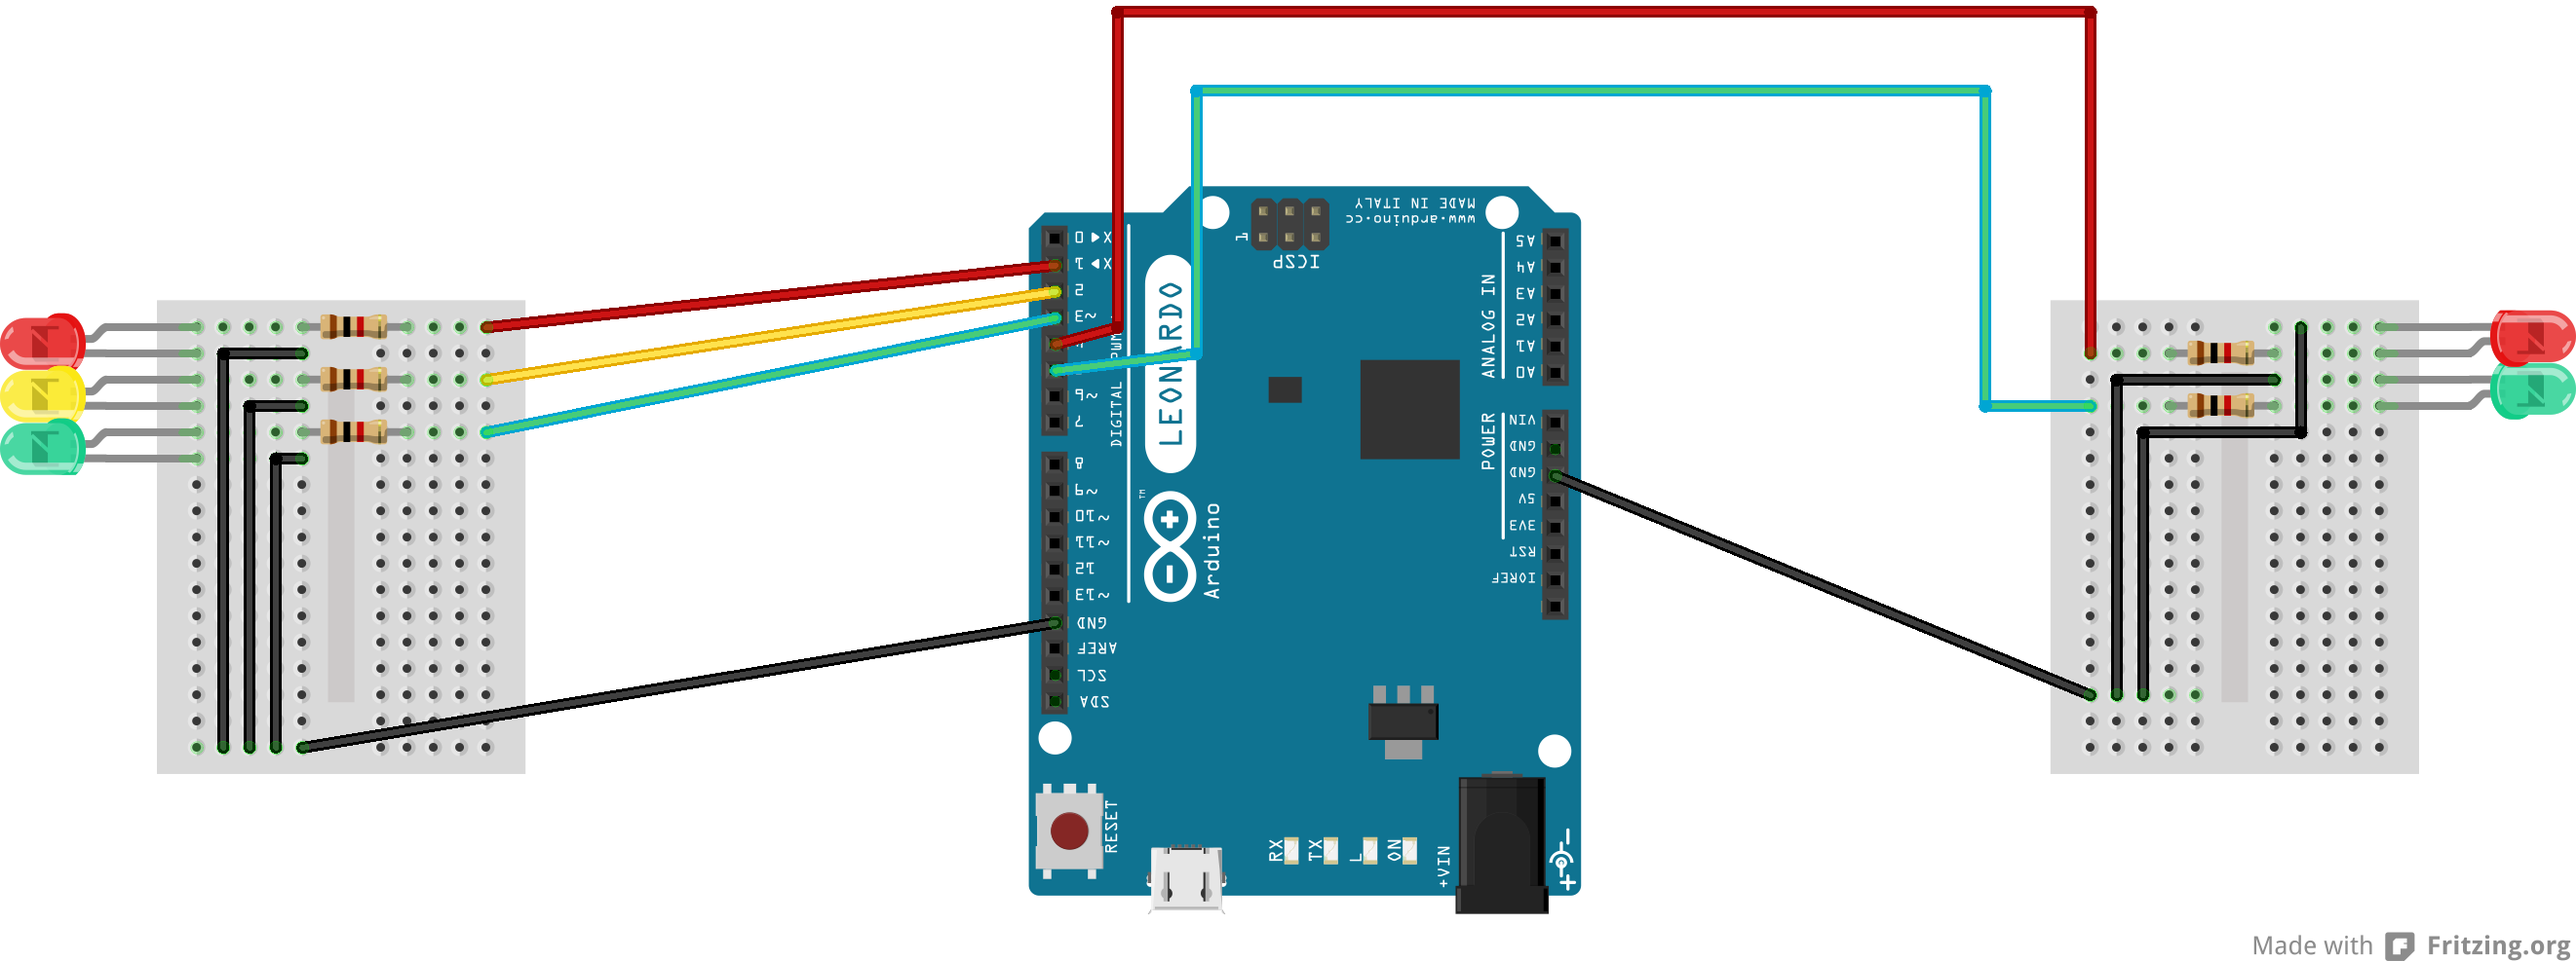
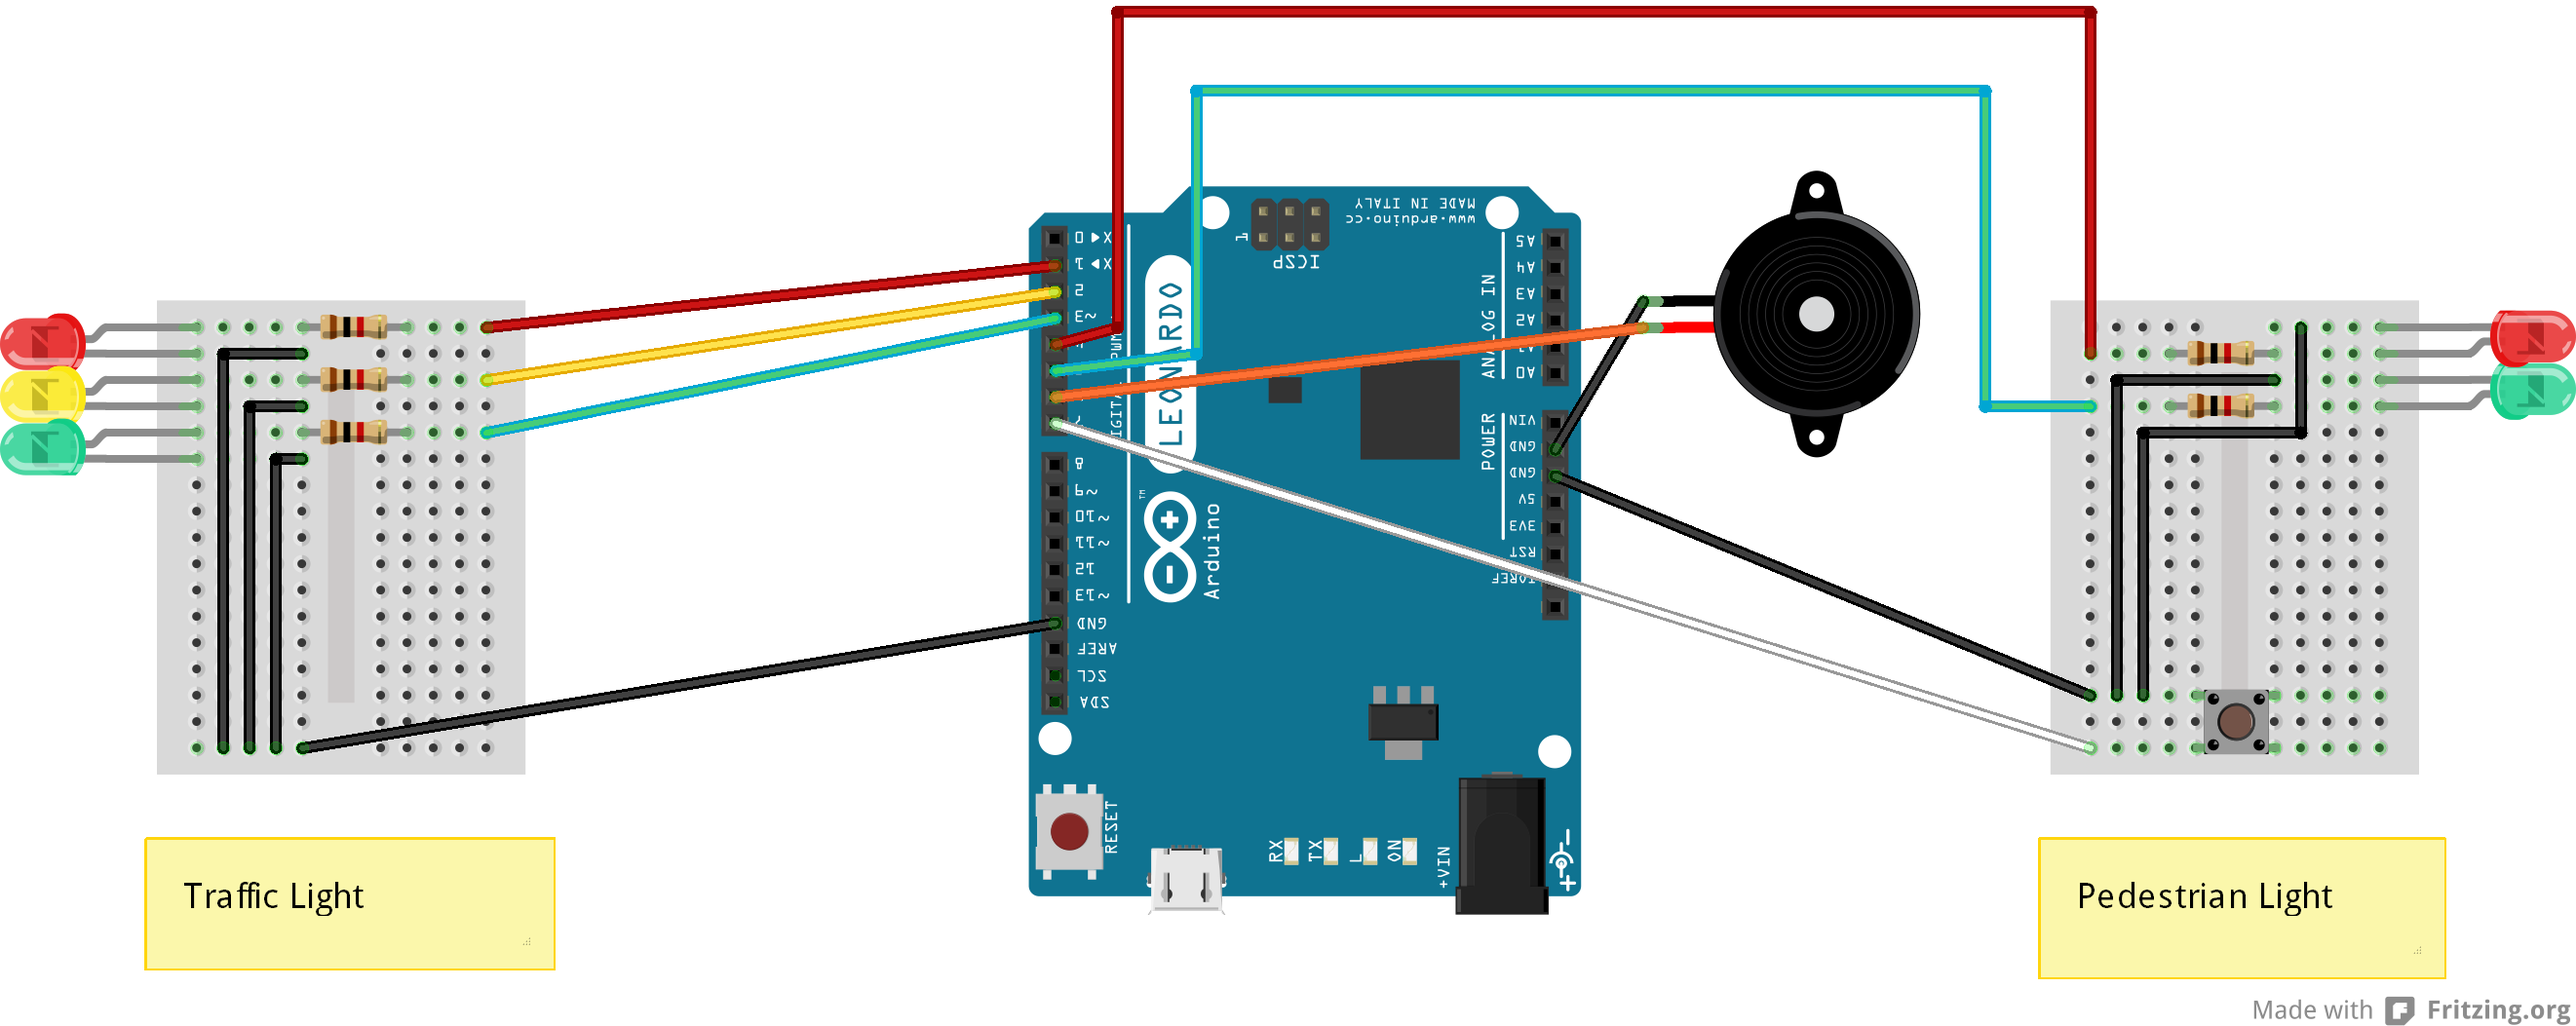
v2.0 Triggered by push button and sounds continuous beep for blind pedestrians.

Changed region(s): [[0.0, 0.152, 1.0, 0.9726], [0.4654, 0.0608, 0.7756, 0.1216], [0.4344, 0.0, 0.8067, 0.0304]]

diff --git a/src/TrafficLight.cpp b/src/TrafficLight.cpp
@@ -1,8 +1,8 @@
 /*
-    Arduino Pedestrian Traffic Light v1.0
+    Arduino Pedestrian Traffic Light v2.0
     
-    This version of the pedestrian traffic light loops through the traffic
-    light pattern continuously.
+    This version of the pedestrian traffic light is triggered by
+    a push button and sounds a continuous beep for blind pedestrians.
     
     Author: Claus Niesen
     https://github.com/cniesen/ArduinoPedestrianTrafficLight
@@ -11,85 +11,115 @@
 #include "TrafficLight.h"
 #include "Arduino.h"
 
-TrafficLight::TrafficLight(int redLightInputPin, int greenLightInputPin, Signal signalState) {
-    this->redLightInputPin = redLightInputPin;
-    this->yellowLightInputPin = NULL;
-    this->greenLightInputPin = greenLightInputPin;
-    if ((signalState == YELLOW) || (signalState == RED_YELLOW)) {
+TrafficLight::TrafficLight(int redLightPin, int yellowLightPin, int greenLightPin, Signal signalState) {
+    this->redLightPin = redLightPin;
+    this->yellowLightPin = yellowLightPin;
+    this->greenLightPin = greenLightPin;
+    if (yellowLightPin == NULL
+        && ((signalState == YELLOW) || (signalState == RED_YELLOW))) {
         this->signalState = RED;
-    } 
-    else {
+    } else {
         this->signalState = signalState;
     }
+    this->buzzerPin = NULL;
 
-    pinMode(redLightInputPin, OUTPUT);     
-    pinMode(greenLightInputPin, OUTPUT);    
+    pinMode(redLightPin, OUTPUT); 
+    if (yellowLightPin != NULL) {
+        pinMode(yellowLightPin, OUTPUT);     
+    }
+    pinMode(greenLightPin, OUTPUT);    
+
+
+    switch(signalState) {
+        case RED :
+            switchSignalToRed();
+            break;
+        case RED_YELLOW :
+            switchSignalToRedYellow();
+            break;
+        case GREEN :
+            switchSignalToGreen();
+            break;
+        case YELLOW :
+            switchSignalToYellow();
+            break;
+    }
 }
 
-TrafficLight::TrafficLight(int redLightInputPin, int yellowLightInputPin, int greenLightInputPin, Signal signalState) {
-    this->redLightInputPin = redLightInputPin;
-    this->yellowLightInputPin = yellowLightInputPin;
-    this->greenLightInputPin = greenLightInputPin;
-    this->signalState = signalState;
-
-    pinMode(redLightInputPin, OUTPUT);     
-    pinMode(yellowLightInputPin, OUTPUT);     
-    pinMode(greenLightInputPin, OUTPUT);    
+void TrafficLight::enableAlert(int buzzerPin) {
+    this->buzzerPin = buzzerPin;
+    pinMode(buzzerPin, OUTPUT);
 }
 
 void TrafficLight::switchSignalToRedYellow() {
-    if ((yellowLightInputPin == NULL) || (signalStandard == USA)) {
+    if ((yellowLightPin == NULL) || (signalStandard == USA)) {
         switchSignalToRed();
         return;
     }
 
-    digitalWrite(redLightInputPin, HIGH);
-    digitalWrite(yellowLightInputPin, HIGH);
-    digitalWrite(greenLightInputPin, LOW);
+    digitalWrite(redLightPin, HIGH);
+    digitalWrite(yellowLightPin, HIGH);
+    digitalWrite(greenLightPin, LOW);
+    if (buzzerPin != NULL) {
+        digitalWrite(buzzerPin, LOW);
+    }
 }
 
 void TrafficLight::switchSignalToGreen() {
-    digitalWrite(redLightInputPin, LOW);
-    digitalWrite(yellowLightInputPin, LOW);
-    digitalWrite(greenLightInputPin, HIGH);
+    digitalWrite(redLightPin, LOW);
+    if (yellowLightPin != NULL) {
+        digitalWrite(yellowLightPin, LOW);
+    }
+    digitalWrite(greenLightPin, HIGH);
+    if (buzzerPin != NULL) {
+        digitalWrite(buzzerPin, HIGH);
+    }
 }
 
 void TrafficLight::switchSignalToYellow() {
-    if (yellowLightInputPin == NULL) {
+    if (yellowLightPin == NULL) {
         switchSignalToRed();
         return;
     }
 
-    digitalWrite(redLightInputPin, LOW);
-    digitalWrite(yellowLightInputPin, HIGH);
-    digitalWrite(greenLightInputPin, LOW);
+    digitalWrite(redLightPin, LOW);
+    digitalWrite(yellowLightPin, HIGH);
+    digitalWrite(greenLightPin, LOW);
+    if (buzzerPin != NULL) {
+        digitalWrite(buzzerPin, LOW);
+    }
 }
 
 void TrafficLight::switchSignalToRed() {
-    digitalWrite(redLightInputPin, HIGH);
-    digitalWrite(yellowLightInputPin, LOW);
-    digitalWrite(greenLightInputPin, LOW);
+    digitalWrite(redLightPin, HIGH);
+    if (yellowLightPin != NULL) {
+        digitalWrite(yellowLightPin, LOW);
+    }
+    digitalWrite(greenLightPin, LOW);
+    if (buzzerPin != NULL) {
+        digitalWrite(buzzerPin, LOW);
+    }
 }
 
 void TrafficLight::switchSignal() {
     switch(signalState) {
-    case RED :
-        switchSignalToRedYellow();
-        signalState = RED_YELLOW;
-        break;
-    case RED_YELLOW :
-        switchSignalToGreen();
-        signalState = GREEN;
-        break;
-    case GREEN :
-        switchSignalToYellow();
-        signalState = YELLOW;
-        break;
-    case YELLOW :
-        switchSignalToRed();
-        signalState = RED;
-        break;
-    }
+        case RED :
+            switchSignalToRedYellow();
+            signalState = RED_YELLOW;
+            break;
+        case RED_YELLOW :
+            switchSignalToGreen();
+            signalState = GREEN;
+            break;
+        case GREEN :
+            switchSignalToYellow();
+            signalState = YELLOW;
+            break;
+        case YELLOW :
+            switchSignalToRed();
+            signalState = RED;
+            break;
+        }
 }
 
 

diff --git a/src/TrafficLight.h b/src/TrafficLight.h
@@ -1,8 +1,8 @@
 /*
-    Arduino Pedestrian Traffic Light v1.0
+    Arduino Pedestrian Traffic Light v2.0
     
-    This version of the pedestrian traffic light loops through the traffic
-    light pattern continuously.
+    This version of the pedestrian traffic light is triggered by
+    a push button and sounds a continuous beep for blind pedestrians.
     
     Author: Claus Niesen
     https://github.com/cniesen/ArduinoPedestrianTrafficLight
@@ -13,14 +13,14 @@ class TrafficLight {
         enum Signal {RED=0, RED_YELLOW, GREEN, YELLOW};
         enum SignalStandard {GERMANY=0, USA};
         static SignalStandard signalStandard;
-        TrafficLight(int redLightInputPin, int greenLightinputPin, Signal signalState);
-        TrafficLight(int redLightInputPin, int yellowLightInputPin, int greenLightinputPin, Signal signalState);
+        TrafficLight(int redLightPin, int yellowLightPin, int greenLightPin, Signal signalState);
+        void enableAlert(int buzzerPin);
         void switchSignal();
-
     private:
-        int redLightInputPin;  // make uint8_t
-        int yellowLightInputPin;
-        int greenLightInputPin;
+        int redLightPin;  // make uint8_t
+        int yellowLightPin;
+        int greenLightPin;
+        int buzzerPin;
         Signal signalState;
         void switchSignalToRedYellow();
         void switchSignalToGreen();

diff --git a/README.md b/README.md
@@ -11,4 +11,6 @@ Content:
 
 Versions:
 ---------
+* v2.0 Triggered by push button and sounds continuous beep for blind pedestrians.
+       Video at: http://youtu.be/bmtIeiR1f54
 * v1.0 Loops through the light pattern continuously.
